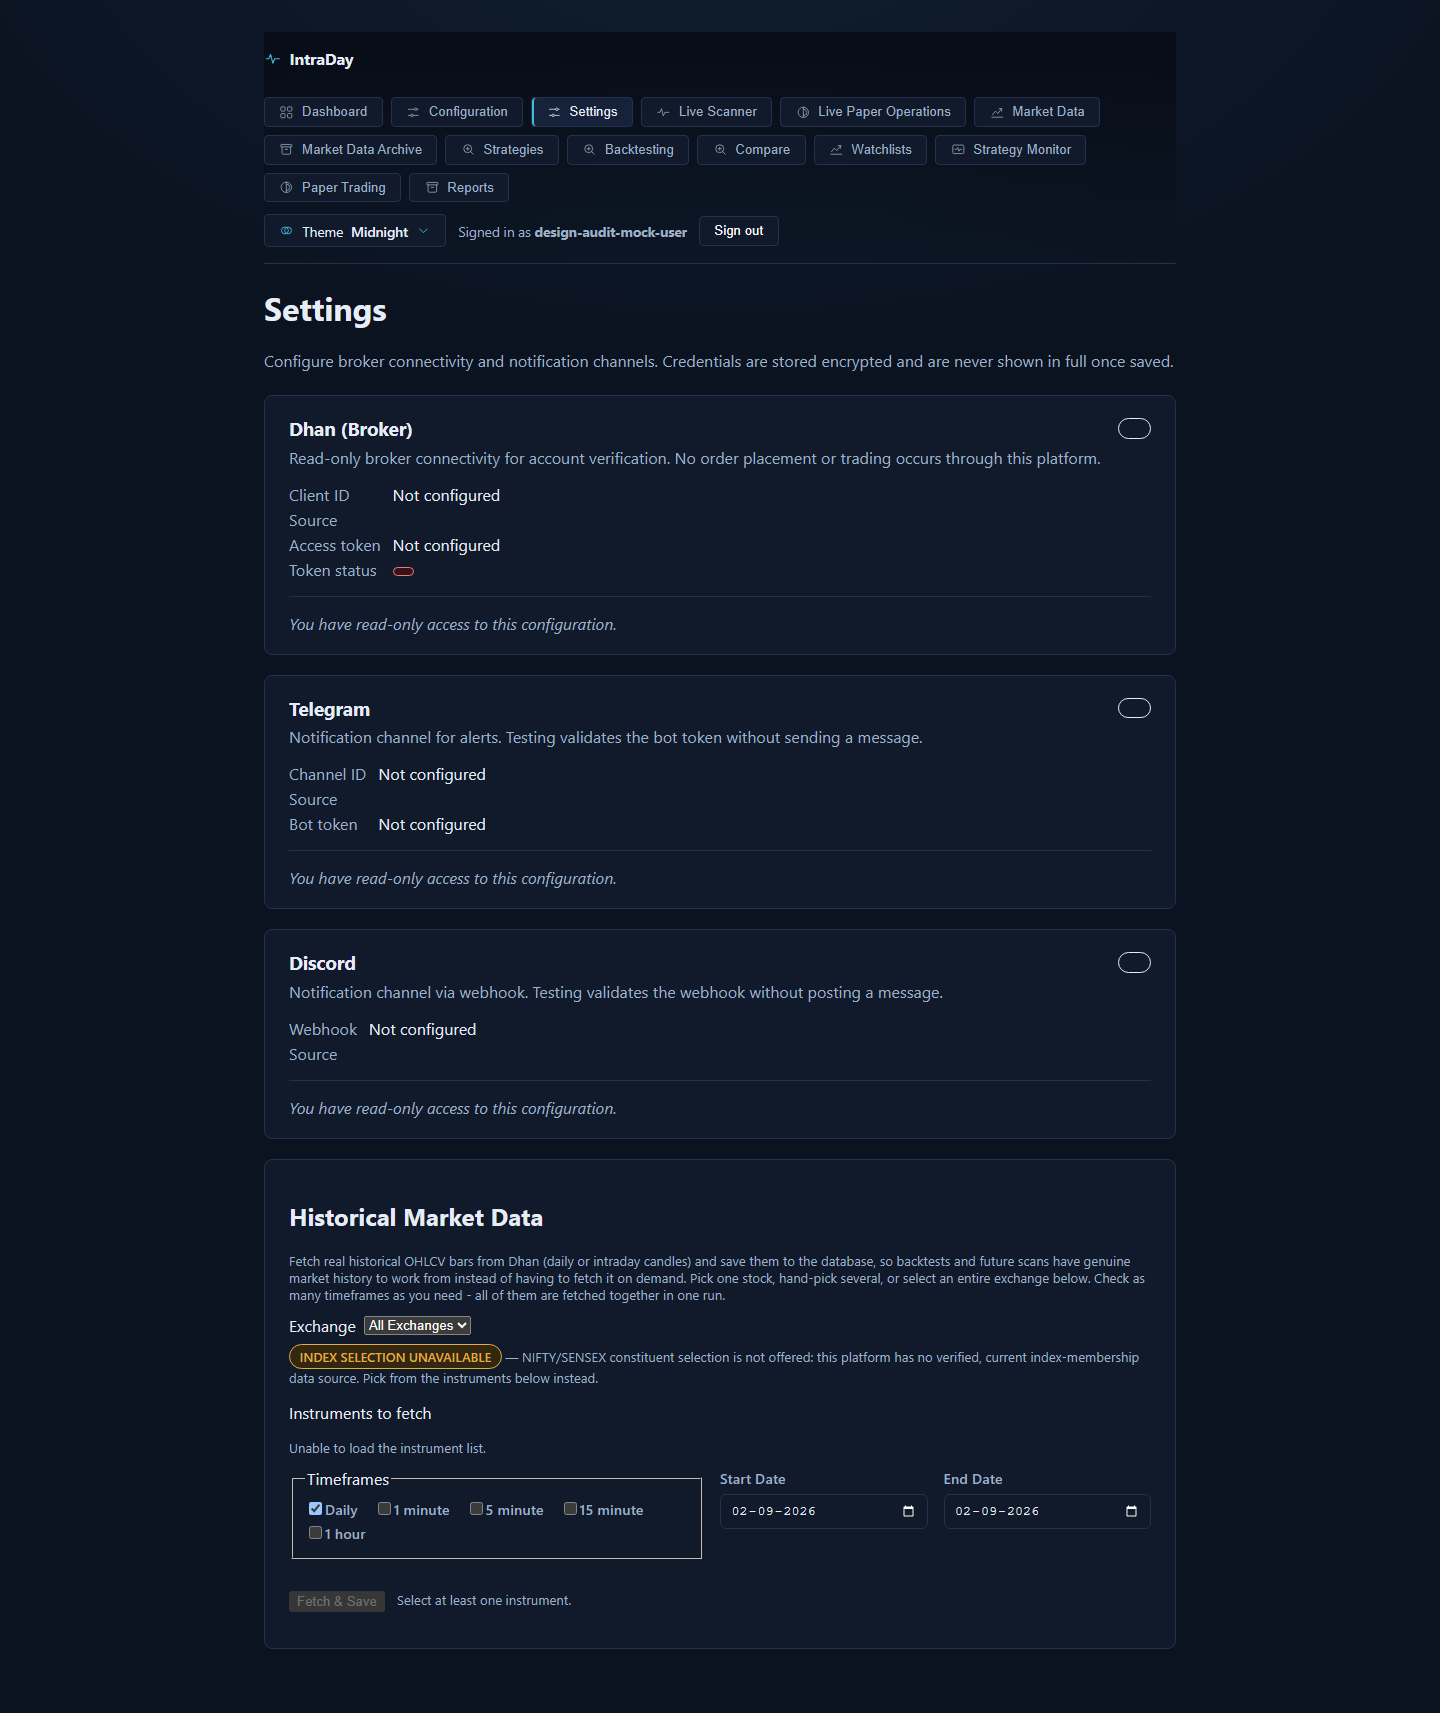
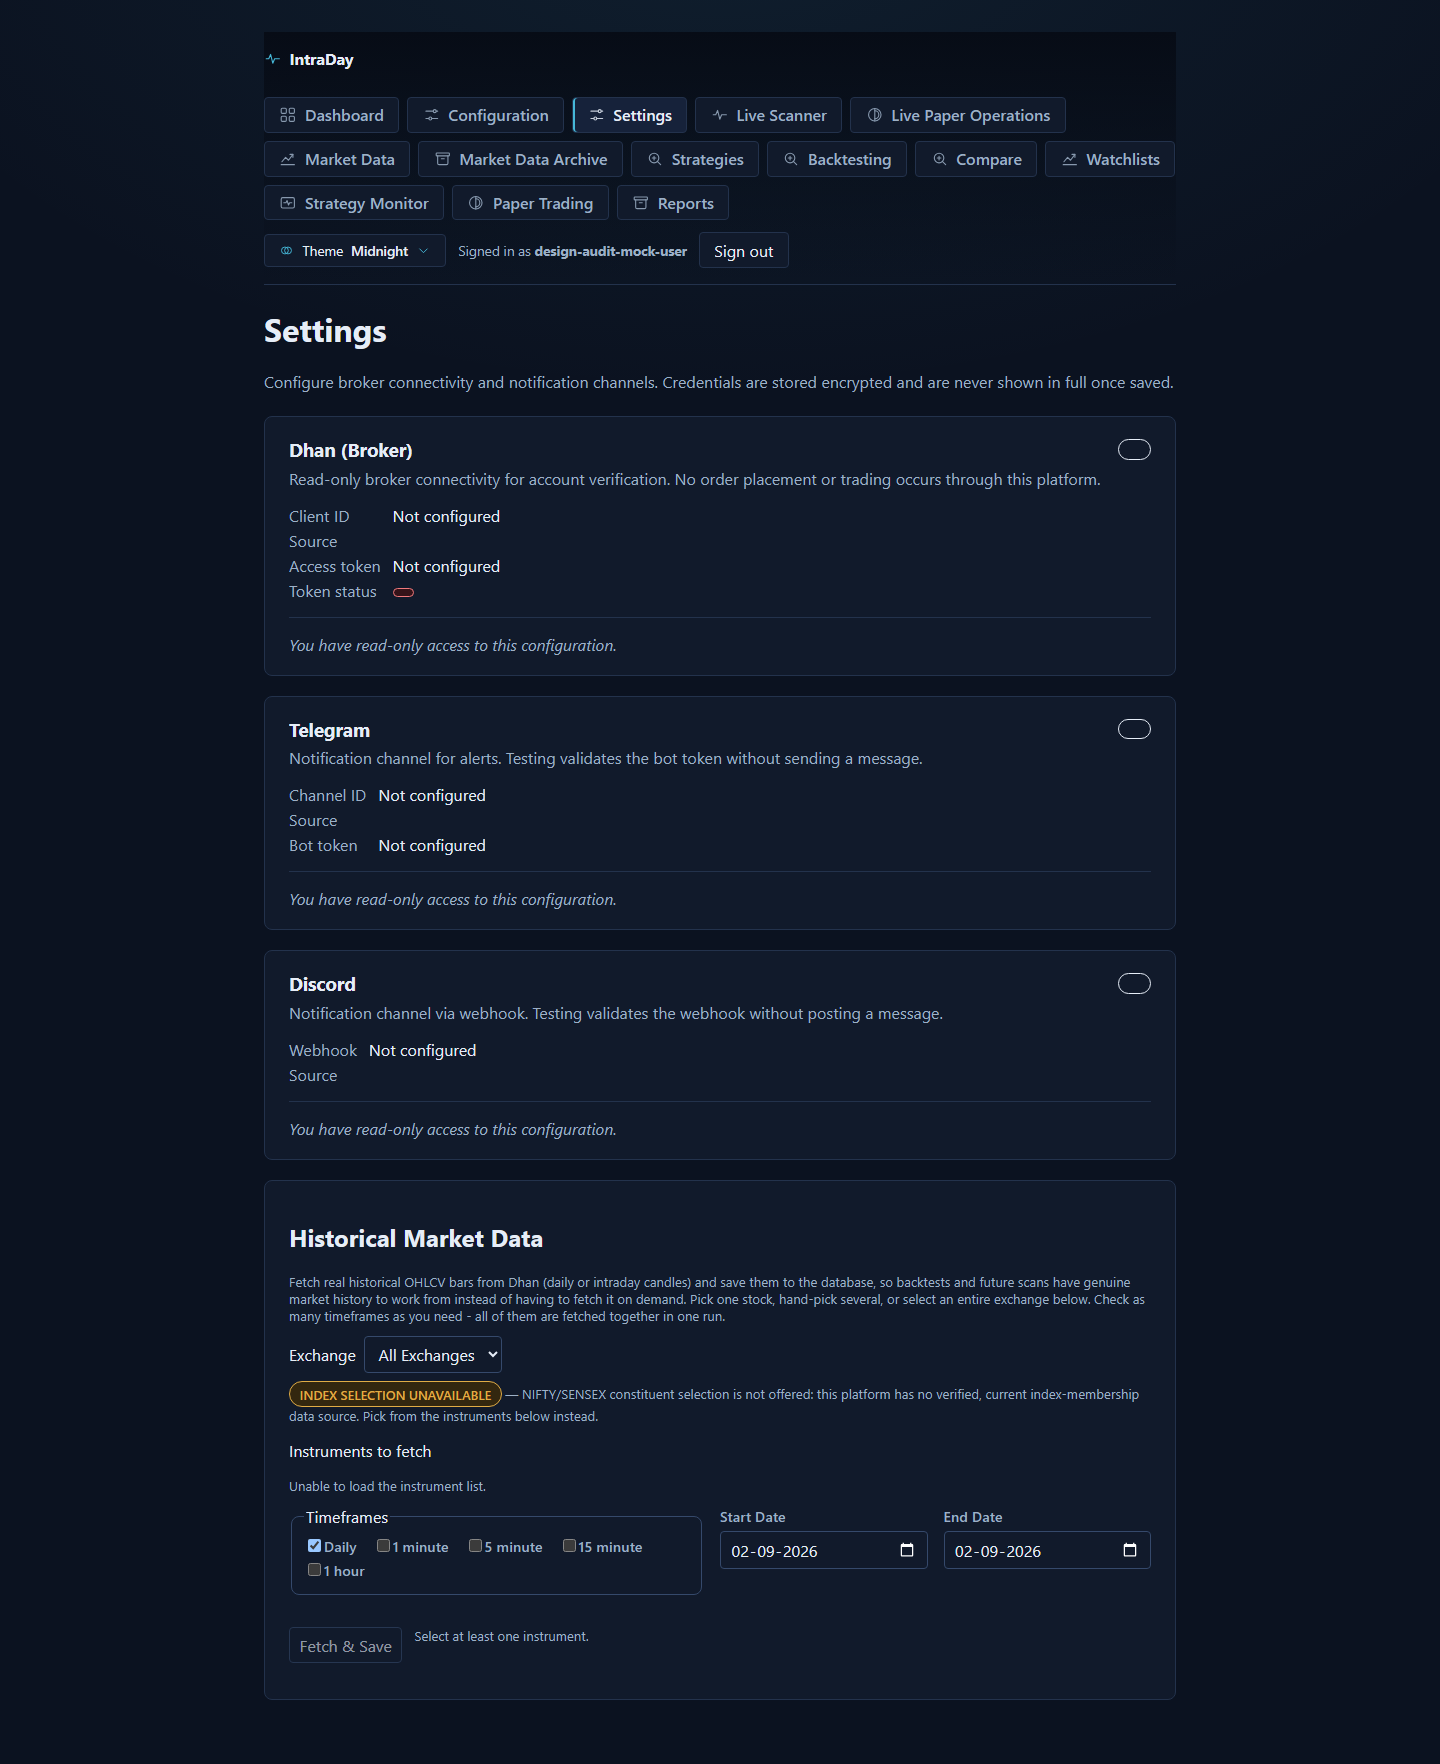
CHECKPOINT FRONTEND-3: dark-mode contrast fix, Paper Trading investigation, dashboard scannability
Part 1: fix dark-mode contrast for native form controls on Settings
(Timeframes fieldset border, date inputs, Fetch & Save button) via
token-based base styles for plain input/select/textarea/button/fieldset
in styles.css, plus per-theme color-scheme in theme.css. Re-captured
and visually confirmed settings-dark.png.

Part 2: investigated Paper Trading's two "Paper Account" sections.
Finding: DIFFERENT_CONCEPTS - PaperSessionPanel's account comes from
GET /paper-trading/session/ (one deterministic-replay session's
simulated account), PaperTradingPage's account comes from GET
/paper-trading/funds/ + positions (the standing live paper-trading
account). No merge performed; a labeling-distinction recommendation is
written into the checkpoint summary for review, not implemented.

Part 3: wrapped the dashboard's Decision Pipeline / "Other audited
relationships" evidence-narrative section in a collapsed-by-default
<details>/<summary> disclosure so the live-status cards are visible
without scrolling. Content is unchanged/unremoved - only visually
collapsed. Re-captured dashboard-light/dark (collapsed) and a new
dashboard-light-evidence-expanded.png (behaviorally confirmed via a
real Playwright click). Added a DashboardPage test covering collapsed
default state, content-present-while-collapsed, and expand-on-click.

Part 4: npm run build, typecheck, and test all clean - 360/360 tests
(359 baseline + 1 new).

See CHECKPOINT_FRONTEND-3_SUMMARY.md for full detail.

diff --git a/frontend/src/app/styles.css b/frontend/src/app/styles.css
@@ -116,6 +116,46 @@ body {
     -apple-system, BlinkMacSystemFont, "Segoe UI", Roboto, sans-serif;
 }
 
+/* Checkpoint FRONTEND-3: base token-backed styling for native form
+   controls that no component-specific class already styles (e.g. the
+   Settings page's `<input type="date">` fields and its "Fetch & Save"
+   button). Before this rule, any un-classed input/select/button fell
+   back to full browser UA chrome, which does not know this app's
+   theme and rendered as a jarring, low-contrast light-mode control on
+   every dark theme (`color-scheme` alone was not enough for buttons/
+   fieldsets). A more specific class-based rule anywhere else in this
+   file still wins on specificity, so nothing already styled changes. */
+input:not([type="checkbox"]):not([type="radio"]),
+select,
+textarea,
+button {
+  background: var(--color-surface);
+  color: var(--color-text);
+  border: 1px solid var(--color-border-strong);
+  border-radius: var(--radius-sm);
+  font-family: inherit;
+  font-size: var(--font-size-base);
+  padding: 0.4rem 0.6rem;
+}
+
+button {
+  cursor: pointer;
+}
+
+button:disabled {
+  opacity: 0.6;
+  cursor: not-allowed;
+}
+
+fieldset {
+  border: 1px solid var(--color-border-strong);
+  border-radius: var(--radius-md);
+}
+
+legend {
+  color: var(--color-text);
+}
+
 /* Checkpoint 35: visible focus state for every keyboard-focusable
    element - WCAG 2.4.7. Applied globally rather than per-component so
    no interactive element can ship without one by omission. */
@@ -1953,6 +1993,46 @@ dd {
 
 .dashboard__group:last-child {
   margin-bottom: 0;
+}
+
+/* Checkpoint FRONTEND-3: the evidence/narrative section (Decision
+   Pipeline + "Other audited relationships") is collapsed by default
+   behind a native <details>/<summary> disclosure, so the live-status
+   cards above it are what a trader sees first without scrolling past
+   ~1400px of documentation. All of its content is unchanged and fully
+   reachable - this only changes whether it is expanded by default. */
+.dashboard__evidence-disclosure {
+  margin-top: var(--space-5);
+  border: 1px solid var(--color-border);
+  border-radius: var(--radius-md);
+  background: var(--color-surface);
+  padding: var(--space-3) var(--space-4);
+}
+
+.dashboard__evidence-disclosure summary {
+  cursor: pointer;
+  font-weight: 600;
+  color: var(--color-text);
+  padding: var(--space-2) 0;
+  list-style: none;
+}
+
+.dashboard__evidence-disclosure summary::-webkit-details-marker {
+  display: none;
+}
+
+.dashboard__evidence-disclosure summary::before {
+  content: "▸ ";
+  color: var(--color-accent);
+}
+
+.dashboard__evidence-disclosure[open] summary::before {
+  content: "▾ ";
+}
+
+.dashboard__evidence-disclosure[open] summary {
+  margin-bottom: var(--space-3);
+  border-bottom: 1px solid var(--color-border);
 }
 
 .dashboard__grid {

diff --git a/frontend/src/features/dashboard/DashboardPage.test.tsx b/frontend/src/features/dashboard/DashboardPage.test.tsx
@@ -239,6 +239,30 @@ describe("DashboardPage — navigation", () => {
     expect(handlers.onOpenMarketData).toHaveBeenCalledTimes(1);
     expect(handlers.onOpenBacktesting).toHaveBeenCalledTimes(1);
   });
+
+  // Checkpoint FRONTEND-3: the evidence/narrative section (Decision
+  // Pipeline + "Other audited relationships") is collapsed by default so
+  // the live-status cards are what a trader sees first - but the content
+  // must remain fully present in the DOM (a <details> element, not a
+  // deletion) and must expand on click.
+  it("collapses the evidence/audited-relationships section by default and expands it on click", async () => {
+    stubApi();
+    renderDashboard();
+    await screen.findByRole("heading", { name: "Market Status", level: 2 });
+
+    const disclosure = screen.getByText("Evidence & Audited Relationships — click to expand")
+      .closest("details");
+    expect(disclosure).not.toBeNull();
+    expect(disclosure).not.toHaveAttribute("open");
+
+    // The Decision Pipeline content is present in the DOM even while
+    // collapsed (a <details> element, not conditionally rendered) - this
+    // is a presentation change, not a content removal.
+    expect(screen.getByRole("heading", { name: /Market Data to Outcome/i })).toBeInTheDocument();
+
+    fireEvent.click(screen.getByText("Evidence & Audited Relationships — click to expand"));
+    expect(disclosure).toHaveAttribute("open");
+  });
 });
 
 describe("DashboardPage — loading, empty and error states", () => {

diff --git a/frontend/src/app/theme/theme.css b/frontend/src/app/theme/theme.css
@@ -84,6 +84,7 @@
    palette so an unconfigured install looks as it always has. ------ */
 [data-theme="focus"],
 .theme-swatch--focus {
+  color-scheme: light;
   --color-bg: #f5f7fa;
   --color-bg-deep: #eaeef3;
   --color-surface: #ffffff;
@@ -125,6 +126,7 @@
 /* --- MIDNIGHT -- deep navy terminal, cool cyan signal. ----------- */
 [data-theme="midnight"],
 .theme-swatch--midnight {
+  color-scheme: dark;
   --color-bg: #0b1220;
   --color-bg-deep: #070c16;
   --color-surface: #111a2b;
@@ -168,6 +170,7 @@
    users who find coloured dark themes fatiguing. ------------------ */
 [data-theme="obsidian"],
 .theme-swatch--obsidian {
+  color-scheme: dark;
   --color-bg: #0d0d0f;
   --color-bg-deep: #060607;
   --color-surface: #151517;
@@ -209,6 +212,7 @@
 /* --- AURORA -- slate-teal depth, restrained jade/violet accents. - */
 [data-theme="aurora"],
 .theme-swatch--aurora {
+  color-scheme: dark;
   --color-bg: #0e1618;
   --color-bg-deep: #08100f;
   --color-surface: #142022;

diff --git a/frontend/src/features/dashboard/DashboardPage.tsx b/frontend/src/features/dashboard/DashboardPage.tsx
@@ -525,8 +525,17 @@ export function DashboardPage({
           is happening right now", and this answers "how does this
           platform get from data to a decision, and which of those links
           are actually wired". It claims nothing the API does not
-          expose. */}
-      <DecisionPipeline onNavigate={onNavigate} />
+          expose.
+          Checkpoint FRONTEND-3: wrapped in a native <details> disclosure,
+          collapsed by default. This is a presentation change only - all
+          of the evidence/narrative content below is fully present and
+          reachable, just not dominating the initial view above the live
+          status cards. Nothing is deleted, nothing moved to another
+          page. */}
+      <details className="dashboard__evidence-disclosure">
+        <summary>Evidence &amp; Audited Relationships — click to expand</summary>
+        <DecisionPipeline onNavigate={onNavigate} />
+      </details>
     </section>
   );
 }

diff --git a/CHECKPOINT_FRONTEND-3_SUMMARY.md b/CHECKPOINT_FRONTEND-3_SUMMARY.md
@@ -1,0 +1,161 @@
+# CHECKPOINT FRONTEND-3 — Summary
+
+Branch: `active-development` (frontend-only). Scope: Part 1 contrast fix,
+Part 2 investigation, Part 3 dashboard scannability, Part 4 re-verify.
+Out of scope, untouched: Reports-page density, Category 3 (nav/router).
+
+## Part 1 — Dark-mode native form control contrast (Settings)
+
+**Confirmed via `docs/design-audit/settings-dark.png` (FRONTEND-2's own
+capture) before changing anything**: the "Timeframes" fieldset border was
+barely visible against the card background, and the "Fetch & Save"
+button rendered with unreadable low-contrast text — both because no
+component in the codebase applied any styling to plain `<input>`,
+`<select>`, `<button>`, or `<fieldset>` elements; they fell back to full
+browser UA chrome, which has no knowledge of this app's theme tokens.
+`<input type="date">` similarly rendered as stock browser chrome.
+
+**Fix** (token-based, no new colors invented):
+- `src/app/styles.css`: added a base rule for
+  `input:not([type=checkbox]):not([type=radio]), select, textarea, button`
+  using `var(--color-surface)`, `var(--color-text)`, and
+  `var(--color-border-strong)`; a global `fieldset`/`legend` rule using
+  the same tokens; disabled-button and cursor styling. Any more specific
+  class selector elsewhere in the file still wins on specificity, so no
+  existing styled control changed.
+- `src/app/theme/theme.css`: added `color-scheme: light` to the `focus`
+  theme and `color-scheme: dark` to `midnight`/`obsidian`/`aurora`, so
+  native chrome (date-picker calendar icon, spinners) also renders
+  correctly per theme, in addition to the token-based border/background
+  fix (not relying on `color-scheme` alone, per the directive).
+
+**Re-captured and visually confirmed**: `docs/design-audit/settings-dark.png`
+was overwritten via a Playwright re-capture reusing FRONTEND-2's mocking
+approach (network-layer mocks, real dev server, no backend, no DB writes,
+no Dhan call). Looking at the new screenshot: the Timeframes fieldset now
+has a clearly visible border, the date inputs render as themed dark
+fields with legible white-on-dark text, and "Fetch & Save" is now a
+clearly bordered, legible button. `styles.quality.test.ts` and
+`theme.quality.test.ts` (20 tests) still pass — no hex/rgba leaked
+outside `:root`, every theme still defines the full canonical token set.
+
+## Part 2 — Paper Trading's two "Paper Account" sections
+
+**Read in full**: `src/features/paper-trading/PaperTradingPage.tsx` and
+`src/features/paper-trading/PaperSessionPanel.tsx`.
+
+**Finding: `DIFFERENT_CONCEPTS`.**
+
+- The first "Paper Account" lives inside `PaperSessionPanel`'s "Paper
+  Trading Session (Deterministic Replay)" block. It is sourced from
+  `getPaperSession()` → `GET /api/v1/config/paper-trading/session/`,
+  reading `session.account` — fields `starting_capital`,
+  `available_capital`, `equity`, `realized_pnl`, `unrealized_pnl`,
+  `total_pnl`, `drawdown`. This is the account state of one specific
+  deterministic-replay backtest session (start/pause/resume/stop/reset,
+  tied to a `replay_date`/`replay_cursor`).
+- The second "Paper Account" lives inside `PaperTradingPage` itself
+  ("Paper Account" heading, `funds-heading`). It is sourced from
+  `getPaperFunds()` → `GET /api/v1/config/paper-trading/funds/` —
+  fields `available_balance`, `utilized_margin` — plus
+  `getPaperPositions()` for the "Open Positions" count. This is the
+  live/operational paper-trading account: real submitted paper orders
+  via `submitPaperOrder()`, independent of any replay session.
+
+These are two distinct backend endpoints backing two distinct concepts
+(a replay-session's simulated account vs. the platform's standing paper
+account used for manually submitted paper orders), not the same data
+rendered twice. **No merge was made**, per the directive.
+
+**Recommendation (not implemented — reported for review, since it
+changes how financially meaningful information is read):**
+- Rename the first section's heading from "Paper Account" to something
+  that names what it is, e.g. **"Replay Session Account (Simulated)"**
+  or **"Deterministic Replay — Paper Account"**.
+- Rename the second section's heading from "Paper Account" to something
+  that distinguishes it as the standing/live paper-trading account, e.g.
+  **"Live Paper Trading Account"** or **"Standing Paper Account"** — note
+  "Live" here must stay unambiguous that it means "currently active
+  paper trading," never confusable with real trading, consistent with
+  this page's existing PAPER MODE safety language.
+- Consider a one-line explanatory sub-caption under each heading (e.g.
+  "Tracks only this replay session's simulated fills" vs. "Tracks all
+  manually submitted paper orders on this platform") so a user does not
+  have to infer the distinction from context.
+- This is a copy/labeling change only — no data flow, endpoint, or
+  component structure change is implied.
+
+## Part 3 — Dashboard scannability
+
+**Confirmed the boundary** via `docs/design-audit/dashboard-light.png`
+and by reading `src/features/dashboard/DashboardPage.tsx`: the
+live-status card groups (Market Status, System & Data Health [Data
+Provider / Worker Status / System Readiness], Market Data & Archive
+[Today's Market Data / Archive & Reconciliation], Simulation & Research
+[Paper Trading / Research Readiness / Gainz]) end at line 521, and
+`<DecisionPipeline onNavigate={onNavigate} />` (which renders "Market
+Data to Outcome" plus "Other audited relationships" plus the status-key
+legend) begins immediately after at line 529 — confirmed in the original
+screenshot as a ~1400px-tall status view followed by several thousand
+more pixels of evidence/narrative content.
+
+**Change**: wrapped `<DecisionPipeline>` in a native
+`<details className="dashboard__evidence-disclosure">` /
+`<summary>Evidence &amp; Audited Relationships — click to expand</summary>`
+element, collapsed by default (no `open` attribute). `src/app/styles.css`
+adds matching token-based styling (border, background, a `▸`/`▾`
+disclosure-triangle marker driven by the `[open]` attribute selector).
+Nothing was deleted: the entire `DecisionPipeline` subtree is still
+rendered in the DOM at all times — a `<details>` element hides content
+visually via the UA, it does not unmount it — so it remains fully
+reachable, keyboard-operable, and present for anyone who expands it or
+uses in-page find.
+
+**Behaviorally confirmed, not just read from JSX**:
+- `docs/design-audit/dashboard-light.png` and `dashboard-dark.png`
+  (re-captured) now show the page ending in a single collapsed
+  "▸ Evidence & Audited Relationships — click to expand" row right after
+  the Gainz card, in both themes — the live-status cards are now visible
+  in well under 1400px, no scrolling through documentation required.
+- `docs/design-audit/dashboard-light-evidence-expanded.png` was captured
+  via a real Playwright click on the summary element; the screenshot
+  confirms the full "Market Data to Outcome" pipeline stages, "Other
+  audited relationships" cross-checks, and the "What each status means"
+  legend all render exactly as before, just below the now-open
+  disclosure.
+- A new test was added,
+  `DashboardPage — rendering and market/system state > collapses the
+  evidence/audited-relationships section by default and expands it on
+  click"` (in `src/features/dashboard/DashboardPage.test.tsx`), which
+  asserts: the `<details>` has no `open` attribute on initial render; the
+  Decision Pipeline's own heading ("Market Data to Outcome") is present
+  in the DOM even while collapsed (proving no content deletion); and
+  clicking the summary sets the `open` attribute.
+
+## Part 4 — Re-verify
+
+- `npm run typecheck` — clean.
+- `npm run build` — clean (94 modules, `dist/assets/index-*.css` 49.87 kB,
+  `dist/assets/index-*.js` 373.72 kB gzip 99.06 kB).
+- `npm test -- --run` — **360 passed** (34 test files), up from the
+  359-test baseline by exactly the one new disclosure test added above.
+  No regressions.
+
+## Files touched
+
+- `src/app/styles.css` — native control base tokens, fieldset/legend
+  tokens, `.dashboard__evidence-disclosure` styling.
+- `src/app/theme/theme.css` — `color-scheme` per theme.
+- `src/features/dashboard/DashboardPage.tsx` — `<details>`/`<summary>`
+  wrap around `<DecisionPipeline>`.
+- `src/features/dashboard/DashboardPage.test.tsx` — new disclosure test.
+- `docs/design-audit/settings-dark.png` — re-captured (overwritten).
+- `docs/design-audit/dashboard-light.png`,
+  `docs/design-audit/dashboard-dark.png` — re-captured (overwritten).
+- `docs/design-audit/dashboard-light-evidence-expanded.png` — new,
+  behavioral confirmation of the expand interaction.
+
+No production trading/data logic touched. No Dhan network call made
+(all screenshots use the same Playwright network-layer mock as
+FRONTEND-2, no real backend, no DB writes). Reports page and
+navigation/router structure were not touched.
